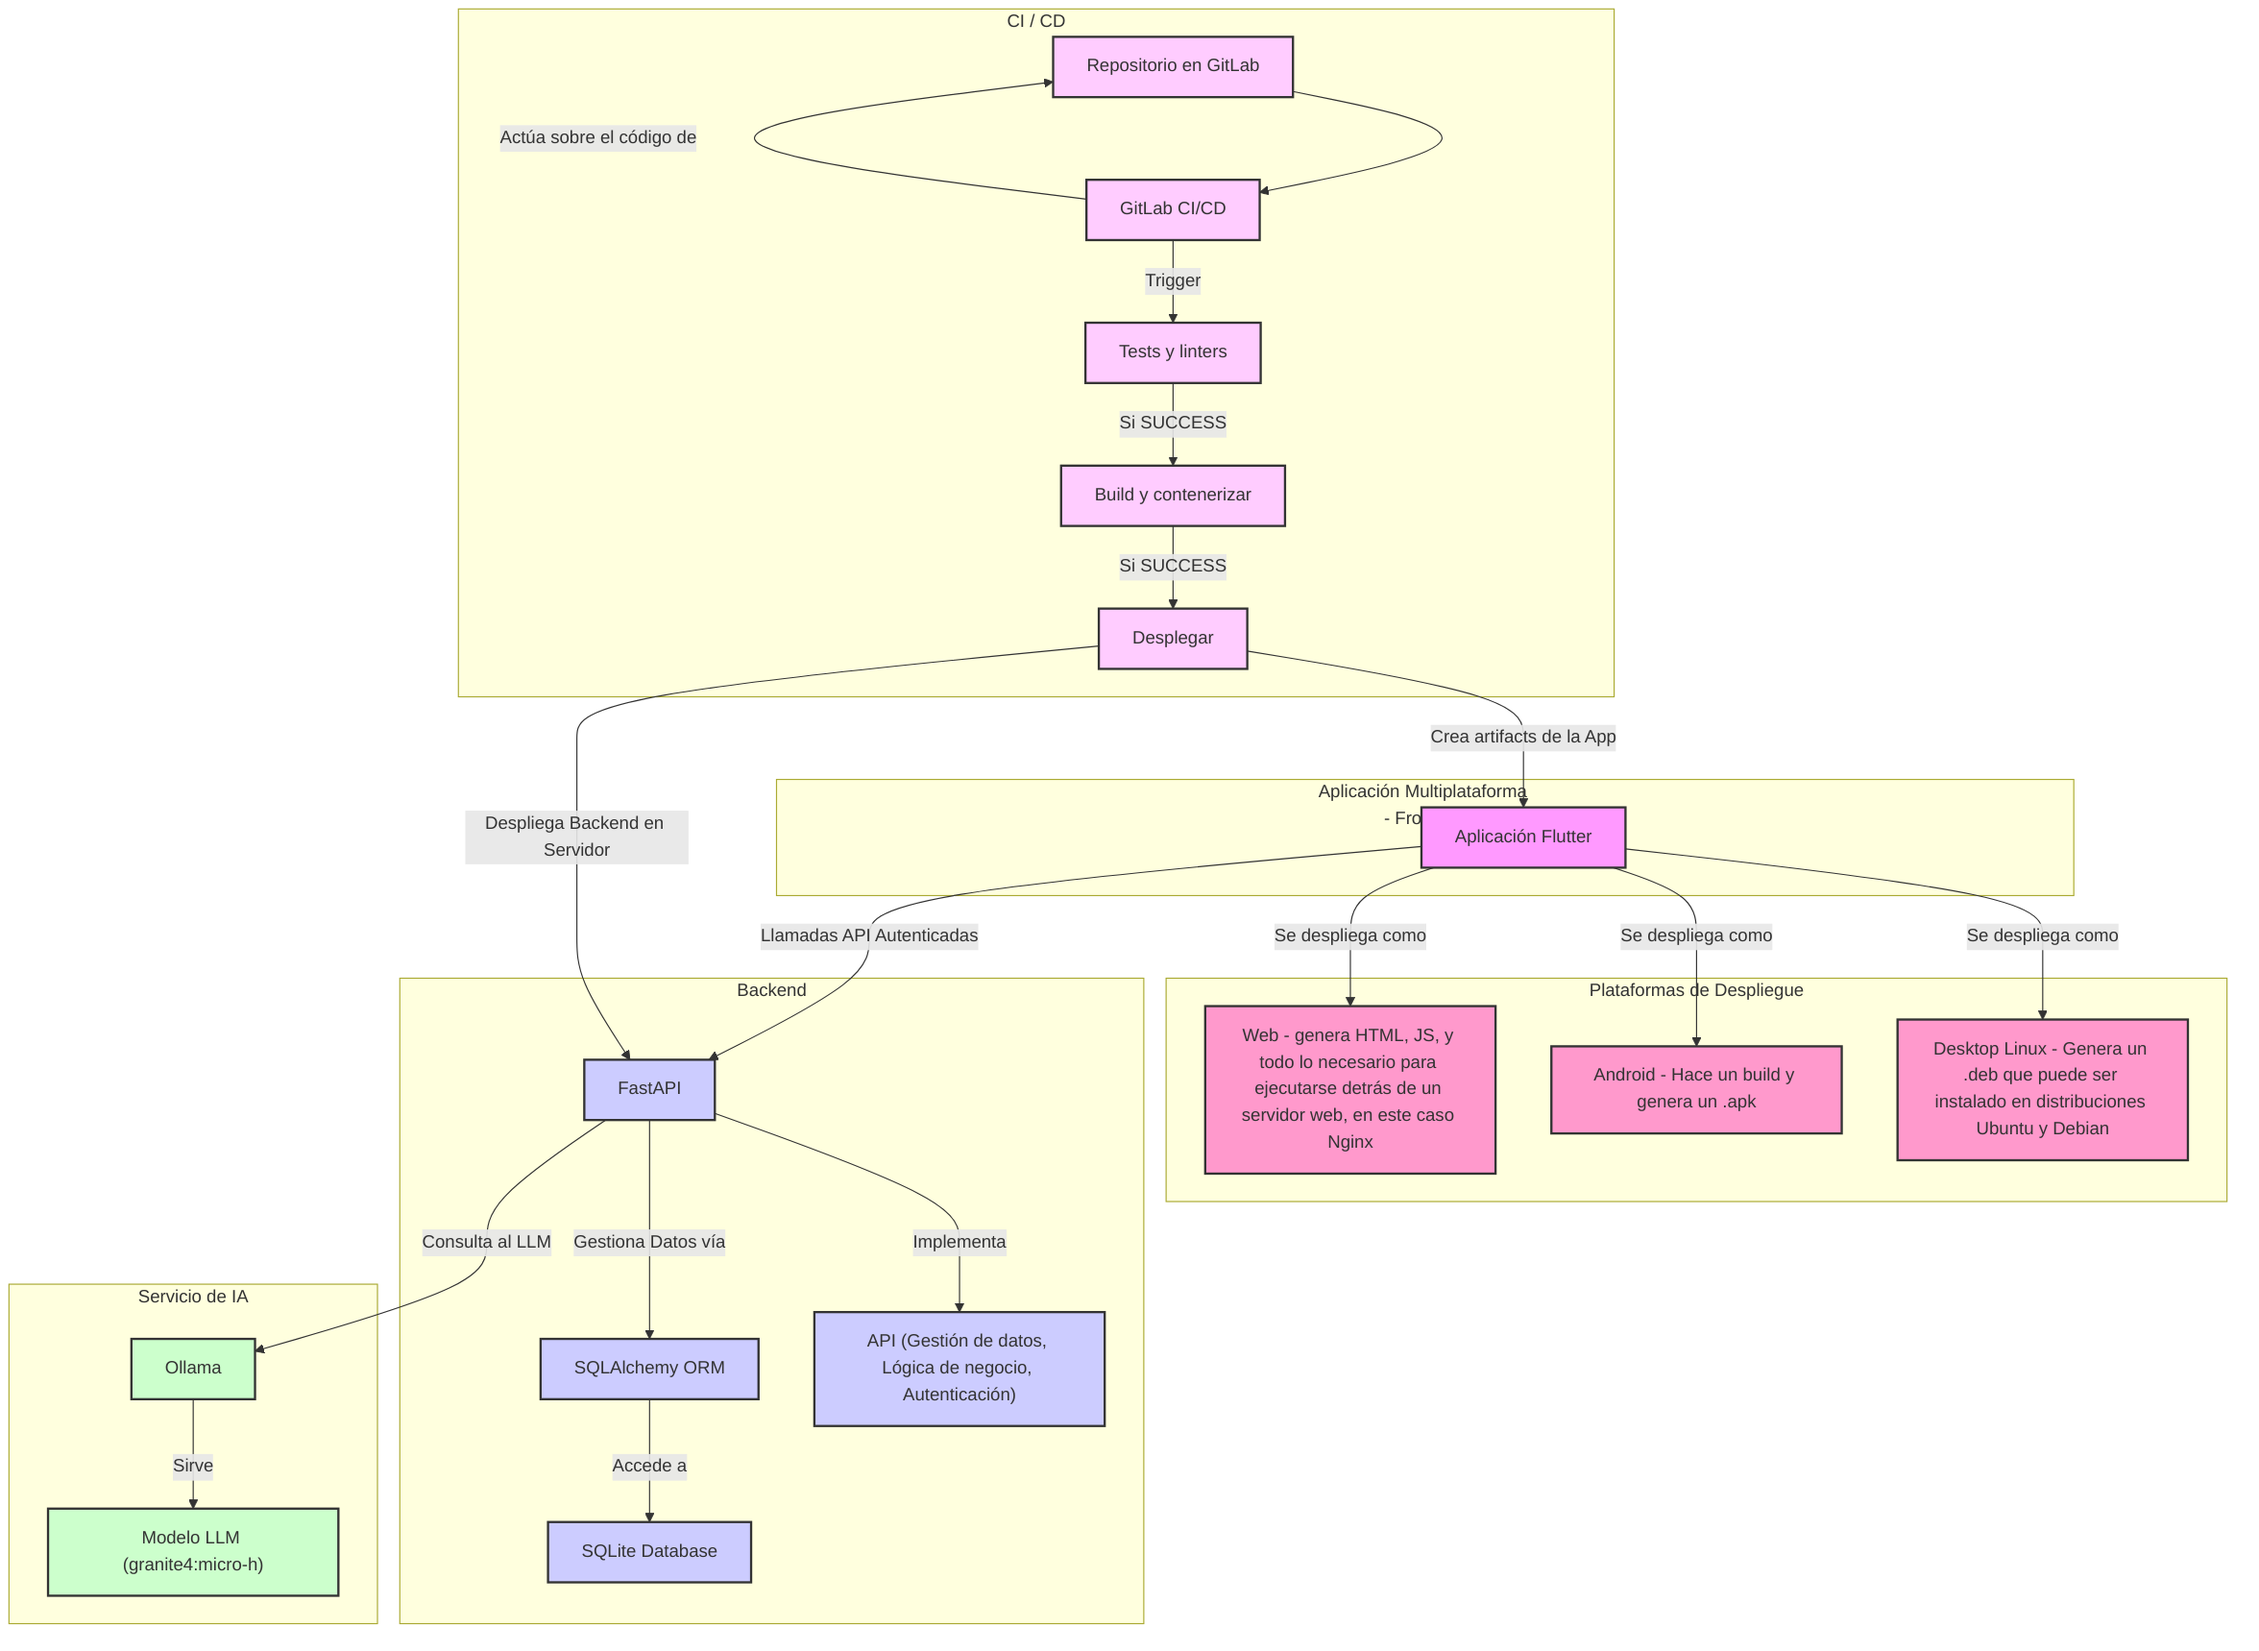
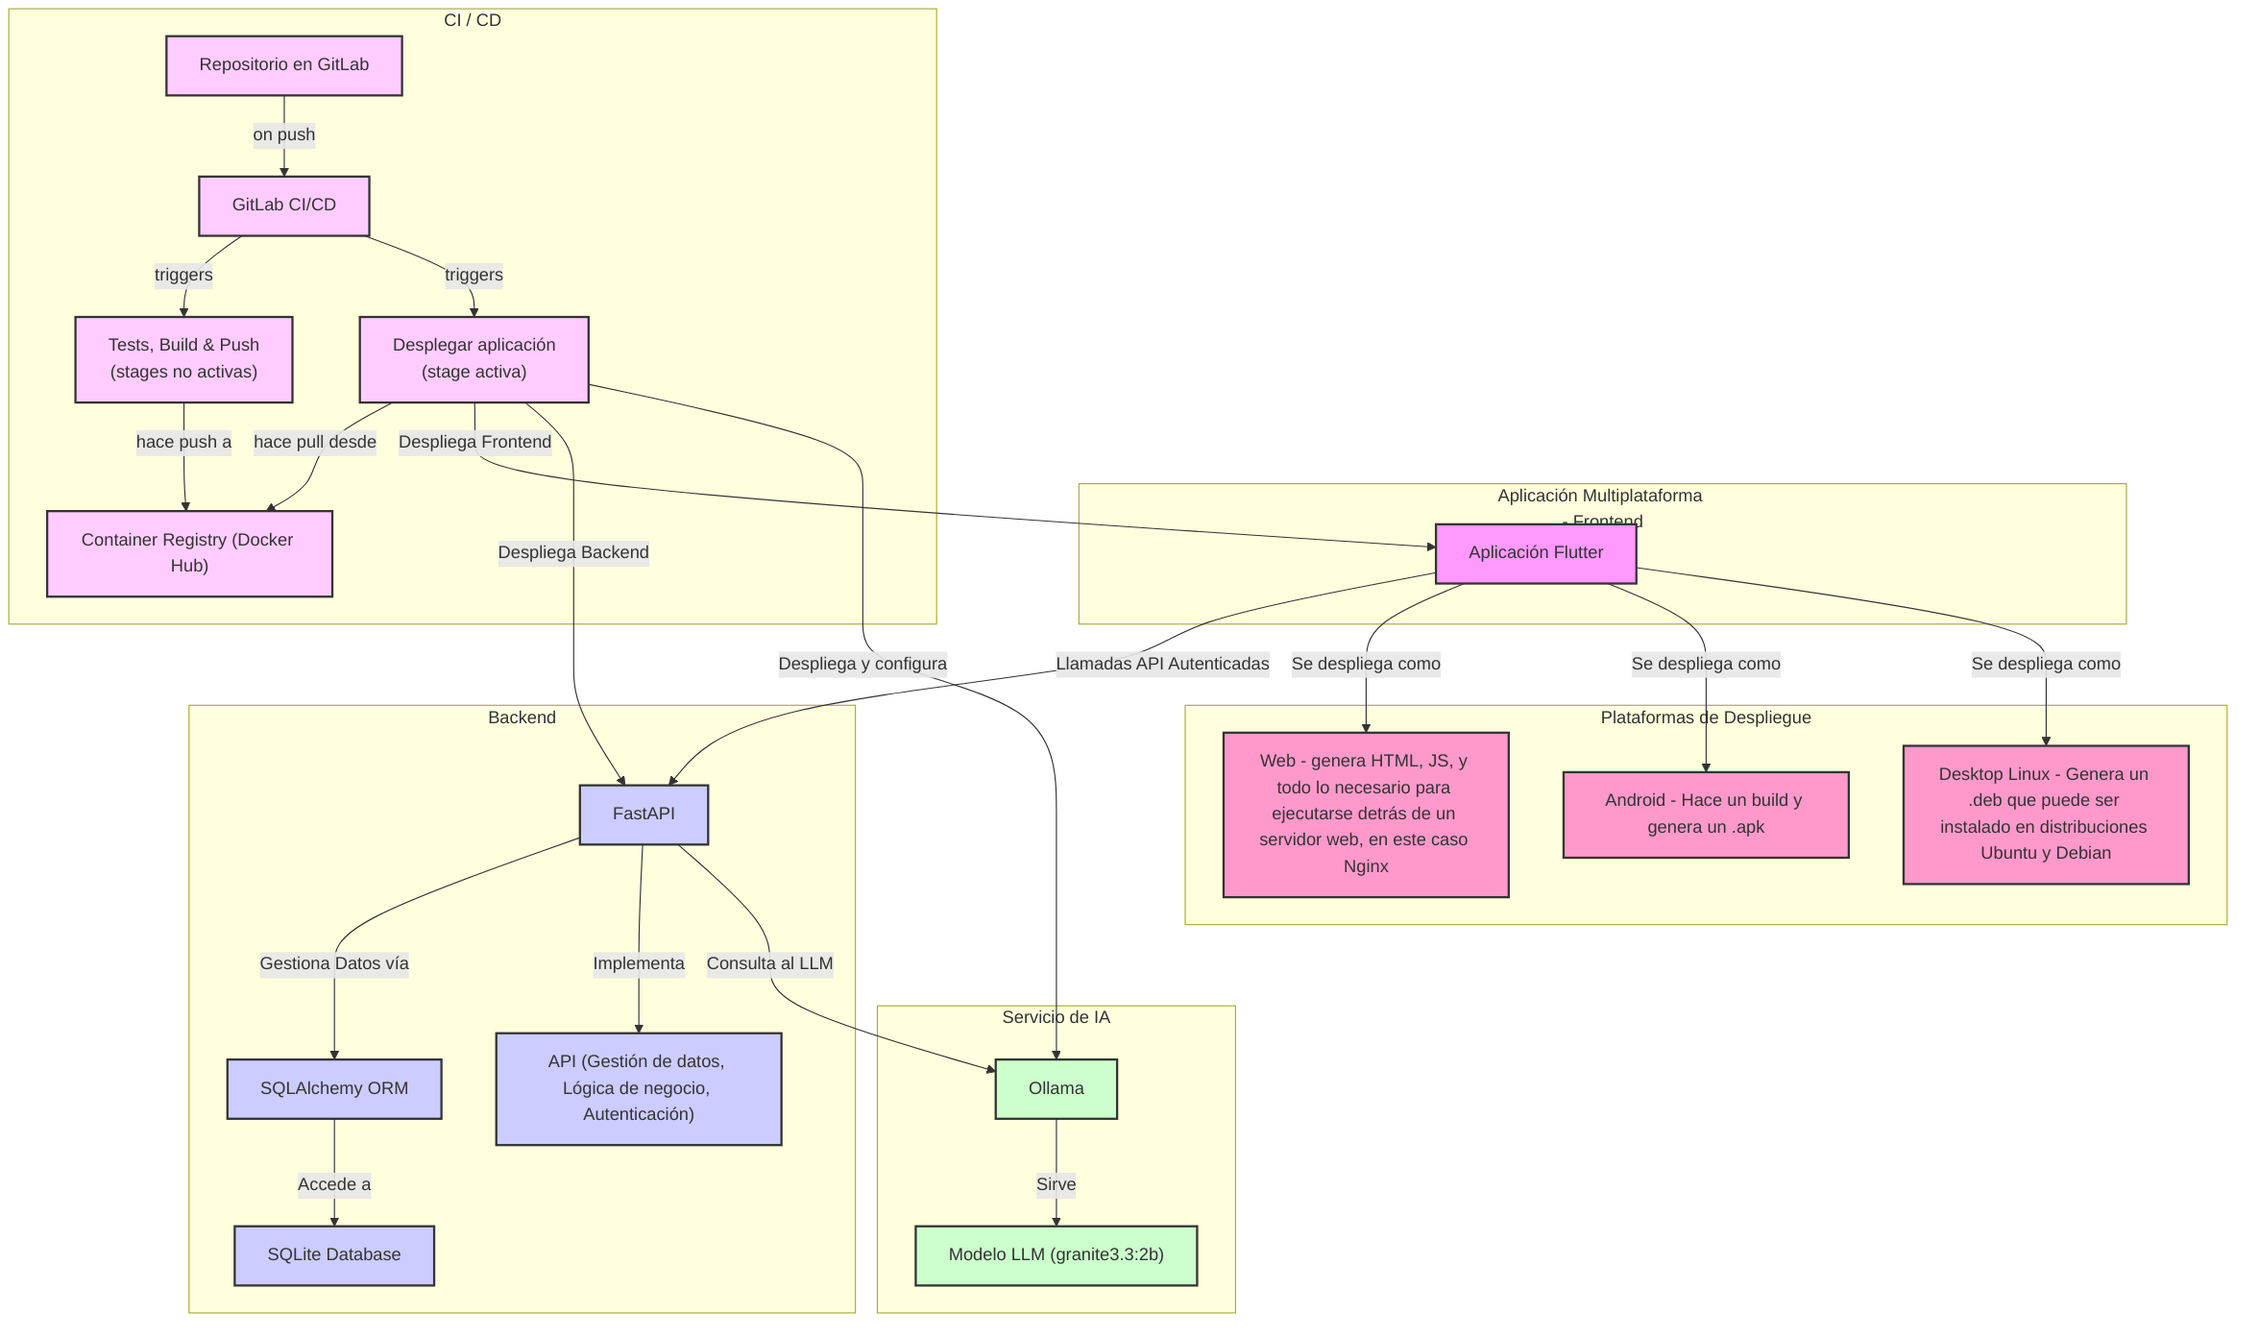
Añadir nuevos stages para hacer push del build de las imágenes de docker en el registry usando kaniko y deploy. Actualizar documentación.

diff --git a/dillearning/lib/core/env_config.dart b/dillearning/lib/core/env_config.dart
@@ -23,7 +23,7 @@ class AppConfig {
   static EnvironmentConfig _getConfigForEnvironment(String env) {
     switch (env) {
       case 'prod':
-        return EnvironmentConfig(apiBaseUrl: 'https://dillearning.com/api');
+        return EnvironmentConfig(apiBaseUrl: 'http://213.165.93.228:8080/api/');
       case 'docker':
         return EnvironmentConfig(apiBaseUrl: '/api');
       case 'dev':

diff --git a/dillearning/lib/main.dart b/dillearning/lib/main.dart
@@ -10,6 +10,7 @@ import 'package:dillearning/l10n/app_localizations.dart';
 Future<void> main() async {
   WidgetsFlutterBinding.ensureInitialized();
   AppConfig.initialize();
+  print('Current API Base URL: ${AppConfig.config.apiBaseUrl}');
   runApp(
     MultiProvider(
       providers: [

diff --git a/dillearning-backend/services/ai_service.py b/dillearning-backend/services/ai_service.py
@@ -9,7 +9,7 @@ from schemas.ai import (
 
 
 class AIService:
-    def __init__(self, model: str = "granite4:micro-h"):
+    def __init__(self, model: str = "granite3.3:2b"):
         self.model = model
 
     async def _stream_ai_response(self, messages: list):

diff --git a/README.md b/README.md
@@ -49,11 +49,61 @@ El backend está desarrollado en Python usando FastAPI y se comunica con un serv
 
 Para instrucciones detalladas sobre el backend debemos consultar [README.md dillearning-backend](./dillearning-backend/README.md).
 
+## CI/CD
+
+El proyecto cuenta con un pipeline de CI/CD configurado en el fichero [.gitlab-ci.yml](./.gitlab-ci.yml) que se encarga de:
+
+- **linters**: Ejecutar linters para el código de frontend y backend.
+- **build**: Crear los artefactos de la aplicación para las distintas plataformas (web, Android, Linux).
+- **publish**: Publicar las imágenes de backend y frontend en un registro de contenedores.
+- **deploy**: En este caso y solo para probar nuestra aplicación en producción usando un método que no tiene porque con high availability, he usado docker compose para correr las aplicaciones y hacer uso de las imágenes que publicamos en el registry. Así, cada vez que se haga un cambio en el código y se mergee, se genera una nueva tag en el registry haciendo uso del commit que hemos hecho.
+
+Para hacer publicar nuestra imagen y hacer el deploy necesitamos las siguientes variables configuradas en GitLab en el proyecto:
+
+![gitlab-variables](./documentacion/img/14_gitlab_ci_cd_variables.png).
+
+El build de nuestras imágenes que se hizo con los Dockerfile tanto del frontend como del backend se verá similar a:
+
+![docker-registry](./documentacion/img/15_dillearning_docker_images_pushed.png).
+
+
+## Scripts
+
+El proyecto cuenta con una serie de scripts en la carpeta [scripts](./scripts) que facilitan algunas tareas:
+
+- [create_frontend_deb_package.sh](./scripts/create_frontend_deb_package.sh): Crea un paquete `.deb` para la aplicación frontend en Linux.
+
+En este caso podemos probar el paquete en un contenedor:
+
+```
+$ podman run -it --rm \
+  --env DISPLAY=$DISPLAY \
+  --volume /tmp/.X11-unix:/tmp/.X11-unix \
+  --volume $(echo $XAUTHORITY):/root/.Xauthority \
+  -v $(pwd)/dillearning/build/linux/x64/release/bundle/dillearning-1.0.0-amd64.deb:/tmp/dillearning.deb \
+  ubuntu:24.04 bash -c "
+    apt update &&
+    apt install -y mesa-utils libgl1 libglvnd0 libglu1-mesa &&
+    dpkg -i /tmp/dillearning.deb &&
+    apt-get -f install -y &&
+    dillearning
+  "
+```
+
+Pero en este caso hacer el build necesitaremos pasarle la URL correcta de la API para que pueda comunicarse desde la aplicación de desktop. Este paso no está cubierto y es a prueba de como hacer el build para Linux y usar la aplicación.
+
 ## Otra documentación
 
-- [Propuesta de proyecto](./documentacion/1_proposta.md)
-- [Anteproyecto, justificación, finalidades, diseños y diagramas](./documentacion/2_anteproxecto.md)
-- [Prototipos, seguimiento, problemas encontrados y soluciones adoptadas](./documentacion/3_prototipos.md)
+*   [1. Propuesta de Proyecto](documentacion/1_proposta.md)
+*   [2. Anteproyecto](documentacion/2_anteproxecto.md)
+*   [3. Prototipos y Seguimiento](documentacion/3_prototipos.md)
+*   [4. Documentación Final](documentacion/4_documentacion_final.md)
+    *   [Manual de Usuario (HTML)](documentacion/4_manual_usuario.html)
+    *   [Manual de Usuario (PDF)](documentacion/manual_usuario.pdf)
+*   [5. Defensa del Proyecto](documentacion/5_defensa.md)
+*   [README de Diagramas](documentacion/diagramas/README.md)
+*   [README de Imágenes](documentacion/img/README.md)
+
 
 ## Code
 

diff --git a/documentacion/3_prototipos.md b/documentacion/3_prototipos.md
@@ -33,6 +33,21 @@ Cuando estaba implementando el cambio de tema de dark / light tuve problemas ya 
 
 El código no fue mucho al final pero me costó un poco entenderlo al principio [MR - Habilitar modo claro oscuro](https://gitlab.iessanclemente.net/damd/a23adrianfa1/-/merge_requests/25).
 
+### Push de imágenes al registry de docker usando GitLab CI/CD
+
+En este caso no tengo acceso a los runners del GitLab por lo que hacer build de imágenes es complicado al no tener privilegios. En este caso he optado por usar [GoogleContainerTools/kaniko](https://github.com/GoogleContainerTools/kaniko) que es rootless y no tuve más problemas para hacer el build, tag y push al registry de docker.
+
+### Modelos que requieren de más memoria
+
+En este caso he contratado un VPS que tiene 1GB de RAM. Estaba usando el modelo `granite4:micro-h` para hacer pruebas y me daba el siguiente error:
+```
+  File "/usr/local/lib/python3.12/site-packages/ollama/_client.py", line 179, in inner
+    raise ResponseError(e.response.text, e.response.status_code) from None
+ollama._types.ResponseError: model requires more system memory (1.9 GiB) than is available (794.6 MiB) (status code: 500)
+```
+
+Esto es algo a tener en cuenta. En este caso en producción para hacer pruebas lo he sustituido con `qwen2.5:0.5b` que tiene muy pocos parámetros al ser 0.5b por lo que las respuestas serán más deficientes y maneja menos datos pero para probar como sería la aplicación desplegada nos viene bien.
+
 # Cambios durante el desarrollo
 
 Esto es importante ya que, como en la mayoría de proyectos que requieren tantas tecnologías, modulos y adaptación en los despliegues, siempre hay cambios durante el desarrollo por lo que siempre va a diferir del anteproyecto.

diff --git a/documentacion/4_documentacion_final.md b/documentacion/4_documentacion_final.md
@@ -4,6 +4,10 @@
 
 # Cambios entre el proyecto final y el anteproyecto
 
+Al final he expandido más el proyecto añadiendo un despliegue a un servidor VPS contratado. En este caso es solamente para demostrar como funcionaría el CI/CD por lo que no con tiene las mejores prácticas en cuanto a alta disponibilidad.
+En este caso estoy usando kaniko para hacer un build de las imágenes del frontend y el backend, hacemos un tag usando el commit más reciente de la MR donde hacemos el cambio en el código y hacemos un push.
+Luego en producción lo que hacemos es un rebuild del docker compose para usar la imagen más reciente. De nuevo, esto es para tener en producción la aplicación y demostrar un ejemplo del ciclo completo de CI/CD incluyendo un despliegue. No está pensado para high availability.
+
 # Manual Técnico
 
 Toda la documentación técnica está bien especificada en:
@@ -17,6 +21,11 @@ Además, los diagramas clave del proyecto se encuentran en la carpeta `documenta
 - [Diagrama de Arquitectura del Sistema](./diagramas/arquitectura_sistema.png)
 - [Diagrama de Persistencia de Datos](./diagramas/persistencia_datos_esquema_bd.png)
 - [Diagrama de Interfaz de Usuario](./diagramas/interfaz_usuario.png)
+
+Hay que tener en cuenta a la hora de desplegar en servicios de cloud / hosting abrir puertos del firewall.
+En este caso como estamos desplegando usando el puerto 8080 como ejemplo tuve que abrir ese puerto:
+
+- ![Firewall puertos](./img/16_firewall_puerto.png)
 
 # Manual de Usuario
 
